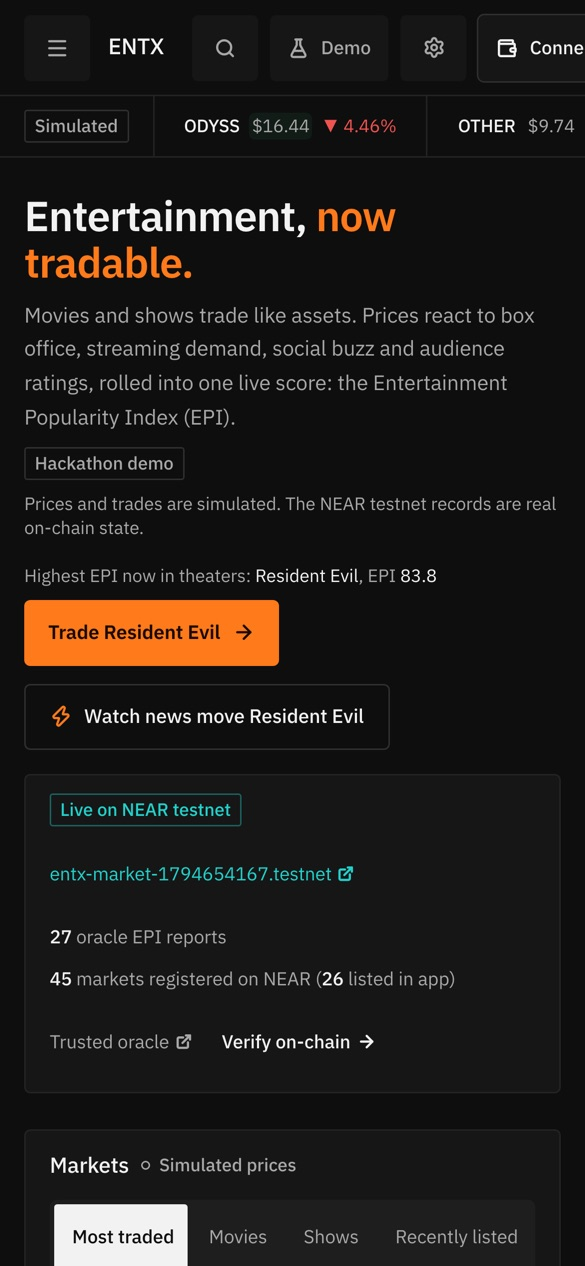
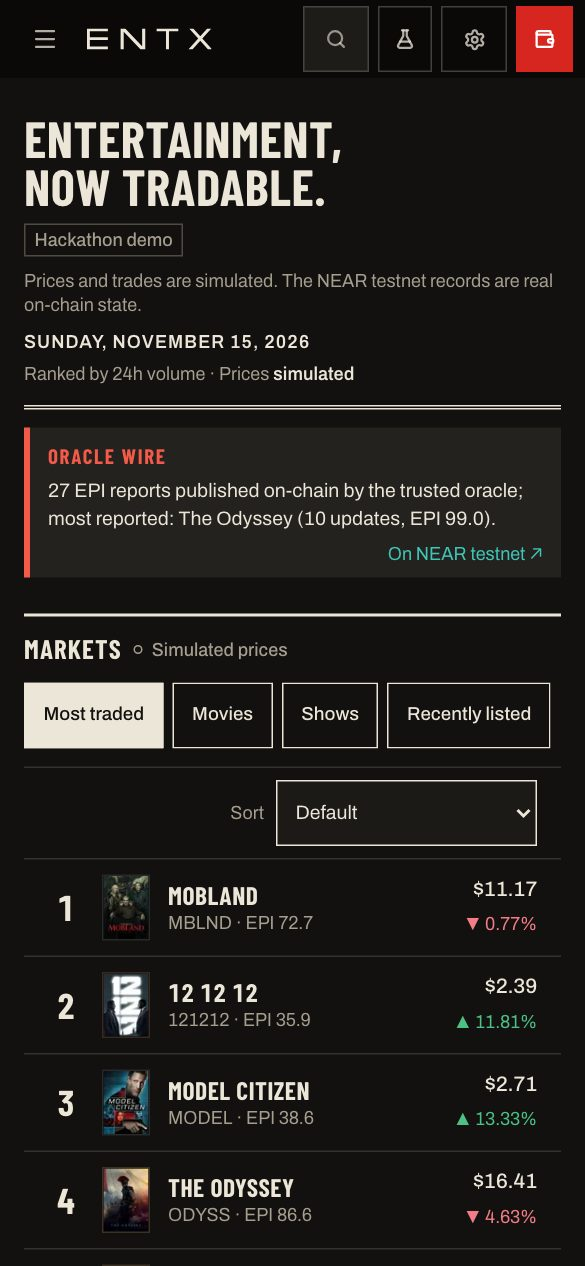
docs(readme): newsprint design, Night Edition screenshots
Re-shoot every README screenshot in the Night Edition and add the landing
page. Add a Design section (Day and Night editions, how to switch, links to
DESIGN.md), point the walkthrough at /markets, list the (site) and (app)
route groups, and update badge colour and test count (550 web tests).

diff --git a/README.md b/README.md
@@ -12,8 +12,8 @@
 A multichain entertainment exchange. Movies and TV shows become markets priced by one live score,<br>
 the **Entertainment Popularity Index (EPI)**, with a NEAR contract for the registry, oracle, receipts and prediction pools.
 
-[![Tests](https://img.shields.io/badge/tests-554%20web%20%2B%2021%20contract%20passing-2ea44f)](#quick-start)
-[![Live demo](https://img.shields.io/badge/demo-demo.entx.space-ff7a1a?style=flat)](https://demo.entx.space)
+[![Tests](https://img.shields.io/badge/tests-550%20web%20%2B%2021%20contract%20passing-2ea44f)](#quick-start)
+[![Live demo](https://img.shields.io/badge/demo-demo.entx.space-d6261f?style=flat)](https://demo.entx.space)
 [![NEAR testnet](https://img.shields.io/badge/NEAR-testnet-00ec97?logo=near&logoColor=white)](https://testnet.nearblocks.io/address/entx-market-1794654167.testnet)
 [![Solana devnet](https://img.shields.io/badge/Solana-devnet-9945ff?logo=solana&logoColor=white)](https://solana.entx.space)
 [![License: MIT](https://img.shields.io/badge/license-MIT-blue)](LICENSE)
@@ -23,13 +23,13 @@ the **Entertainment Popularity Index (EPI)**, with a NEAR contract for the regis
 [![TypeScript](https://img.shields.io/badge/TypeScript-5-3178c6?logo=typescript&logoColor=white)](https://www.typescriptlang.org)
 [![Rust](https://img.shields.io/badge/contract-Rust%20·%20near--sdk%205-dea584?logo=rust&logoColor=white)](contracts/near/src/lib.rs)
 [![Bun](https://img.shields.io/badge/Bun-1.3-f9f1e1?logo=bun&logoColor=black)](https://bun.sh)
-[![NEAR Hackathon 2026](https://img.shields.io/badge/NEAR%20Hackathon-2026-ff7a1a)](#hackathon)
+[![NEAR Hackathon 2026](https://img.shields.io/badge/NEAR%20Hackathon-2026-d6261f)](#hackathon)
 
 **[Try the demo](https://demo.entx.space)** · **[Live site](https://entx.space)** · **[Solana build](https://solana.entx.space)** · **[Contract on NearBlocks](https://testnet.nearblocks.io/address/entx-market-1794654167.testnet)**
 
 <br>
 
-<a href="https://demo.entx.space"><img src="docs/assets/screenshots/discover.jpg" alt="ENTX Discover page: market table with prices, 24h change, EPI and sparklines" width="900"></a>
+<a href="https://demo.entx.space"><img src="docs/assets/screenshots/discover.jpg" alt="ENTX market board in the Night Edition: ranked titles with rank numerals, prices, 24h change, EPI bars and sparklines, the oracle wire above" width="900"></a>
 
 </div>
 
@@ -40,6 +40,7 @@ the **Entertainment Popularity Index (EPI)**, with a NEAR contract for the regis
 - [What it is](#what-it-is)
 - [Try it](#try-it)
 - [Screenshots](#screenshots)
+- [Design](#design)
 - [Quick start](#quick-start)
 - [How it works](#how-it-works)
 - [NEAR contract](#near-contract)
@@ -80,6 +81,7 @@ YES/NO prediction markets shift.
 | **[entx.space](https://entx.space)** | Live · NEAR testnet | Real TMDB data and real on-chain NEAR prediction pools. No demo controls. Asset trading is labelled *preview*. |
 | **[solana.entx.space](https://solana.entx.space)** | Demo · Solana devnet | Same app on Solana, with a devnet memo receipt per trade. |
 
+Each site opens on a landing page at `/`; **Open the markets** goes to the app at `/markets`.
 The **Demo / Live** badge in the top bar, and **Settings → Environment**, switch between the sites.
 On-chain actions (staking, receipts) need a NEAR testnet wallet (Meteor, Intear, MyNearWallet) and testnet NEAR from
 the [faucet](https://near-faucet.io).
@@ -89,7 +91,7 @@ the [faucet](https://near-faucet.io).
 
 1. **Connect a wallet.** On NEAR sites, *Connect wallet* opens near-connect. On the Solana site it connects Phantom,
    Solflare or Backpack on devnet. Each site shows only its own chain.
-2. **Discover** → open the **Spotlight** title (the highest-EPI film in theaters, e.g. *Resident Evil*).
+2. **Discover** (`/markets`) → open the **Spotlight** title (the highest-EPI film in theaters, e.g. *Resident Evil*).
 3. **Buy 10 units.** The AMM fills the simulated trade, then the wallet signs a NEAR `record_trade` receipt (or a
    Solana devnet memo on the Solana site).
 4. **Demo → "Box office beats forecast".** The EPI recalculates (e.g. 83.8 → 90.7). The oracle service publishes
@@ -107,26 +109,50 @@ the [faucet](https://near-faucet.io).
 
 ## Screenshots
 
+Shown in the Night Edition (dark theme). Every screen also ships in the Day Edition; see [Design](#design).
+
 <table>
   <tr>
-    <td width="50%"><img src="docs/assets/screenshots/terminal.jpg" alt="Asset terminal: price chart with EPI fair value line and buy panel"><br><sub><b>Asset terminal</b>: live price, EPI fair value, AMM trade ticket</sub></td>
-    <td width="50%"><img src="docs/assets/screenshots/prediction-detail.jpg" alt="Prediction market: chance of YES chart and bet ticket"><br><sub><b>Prediction market</b>: odds driven by the title's EPI</sub></td>
+    <td colspan="2"><img src="docs/assets/screenshots/landing.jpg" alt="Landing page: headline, Open the markets and Check the contract buttons, and a collage of the live board with a price ticket"><br><sub><b>Landing</b> (<code>/</code>): what ENTX is, the board in miniature, links for judges to verify on-chain</sub></td>
+  </tr>
+  <tr>
+    <td width="50%"><img src="docs/assets/screenshots/terminal.jpg" alt="Asset page: candlestick chart with the EPI fair value line and the buy ticket"><br><sub><b>Asset terminal</b>: live price, EPI fair value, AMM trade ticket</sub></td>
+    <td width="50%"><img src="docs/assets/screenshots/prediction-detail.jpg" alt="Prediction market: chance of YES chart and the bet ticket"><br><sub><b>Prediction market</b>: odds driven by the title's EPI</sub></td>
   </tr>
   <tr>
     <td><img src="docs/assets/screenshots/epi.jpg" alt="EPI leaderboard with signal breakdown and methodology"><br><sub><b>EPI</b>: per-title score, inputs and methodology</sub></td>
-    <td><img src="docs/assets/screenshots/onchain.jpg" alt="On-chain page with NEAR contract stats and NEAR Intents quote"><br><sub><b>On-chain</b>: contract state, oracle reports, NEAR Intents quotes</sub></td>
+    <td><img src="docs/assets/screenshots/onchain.jpg" alt="On-chain page with NEAR contract stats, oracle EPI vs app EPI, and the NEAR Intents quote panel"><br><sub><b>On-chain</b>: contract state, oracle reports, NEAR Intents quotes</sub></td>
   </tr>
   <tr>
-    <td><img src="docs/assets/screenshots/predictions.jpg" alt="Prediction markets list"><br><sub><b>Predictions</b>: markets generated from the catalogue</sub></td>
-    <td><img src="docs/assets/screenshots/portfolio.jpg" alt="Portfolio page"><br><sub><b>Portfolio</b>: P&amp;L, holdings, receipts, leaderboard</sub></td>
+    <td><img src="docs/assets/screenshots/predictions.jpg" alt="Prediction markets list with YES and NO prices"><br><sub><b>Predictions</b>: markets generated from the catalogue</sub></td>
+    <td><img src="docs/assets/screenshots/portfolio.jpg" alt="Portfolio page with holdings and the bot leaderboard"><br><sub><b>Portfolio</b>: P&amp;L, holdings, receipts, leaderboard</sub></td>
   </tr>
 </table>
 
 <p align="center">
-  <img src="docs/assets/screenshots/mobile-discover.jpg" alt="ENTX Discover on a phone" width="260">
+  <img src="docs/assets/screenshots/mobile-discover.jpg" alt="ENTX market board on a phone" width="260">
   &nbsp;&nbsp;
-  <img src="docs/assets/screenshots/mobile-terminal.jpg" alt="ENTX asset terminal on a phone" width="260">
+  <img src="docs/assets/screenshots/mobile-terminal.jpg" alt="ENTX asset page on a phone" width="260">
 </p>
+
+## Design
+
+ENTX is set as a trade-press box office chart that never goes to press: ranked rows, big condensed rank numerals,
+tabular figures, and the oracle as a red-ruled news wire above the board. Barlow Condensed names things (titles,
+headings, the main action); Archivo with tabular figures states every number. Corners are square, panels are flat,
+and structure comes from ink rules rather than shadows.
+
+- **Day Edition:** ink on newsprint, with whiter panel stock and a white ticket where money is committed.
+- **Night Edition:** the same chart under lamp light. Ink and paper swap: warm carbon ground, cream rules, panels
+  stepping lighter toward the ticket, and red, gain and loss brightened to hold 4.5:1 contrast. No glow.
+- **Choosing:** follows the OS by default. Switch in **Settings → Edition** (Day / Night / System) in the app, or with
+  the sun/moon button on the landing page. The choice is saved per browser and applied before first paint.
+- Colour is spent on meaning only: red for the brand and the wire, green and a separate red for gain and loss, teal and
+  violet for NEAR and Solana.
+
+The full system (tokens, type scale, components, rules) is in [`DESIGN.md`](DESIGN.md). App tokens live in
+[`src/app/globals.css`](src/app/globals.css); the landing page's Night Edition in
+[`public/site/landing-dark.css`](public/site/landing-dark.css).
 
 ## Quick start
 
@@ -303,10 +329,13 @@ This is a testnet prototype.
 ```
 entx/
 ├── contracts/near/          NEAR contract (Rust) + unit tests
+├── DESIGN.md                design system (Day and Night editions)
 ├── docs/                    deploy guide, demo script, README assets
 ├── scripts/                 testnet deploy/register/resolve, TMDB seeder
 ├── src/
 │   ├── app/                 Next.js App Router pages + API routes
+│   │   ├── (site)/              landing page at /
+│   │   ├── (app)/               the trading app: /markets, /asset, /predictions, /epi, /portfolio, /onchain
 │   │   ├── api/oracle/          oracle service (server-derived EPI, FC-key signer)
 │   │   └── api/intents/quote/   NEAR Intents 1Click dry-run proxy
 │   ├── components/          UI (trade panel, charts, order book, wallets…)
